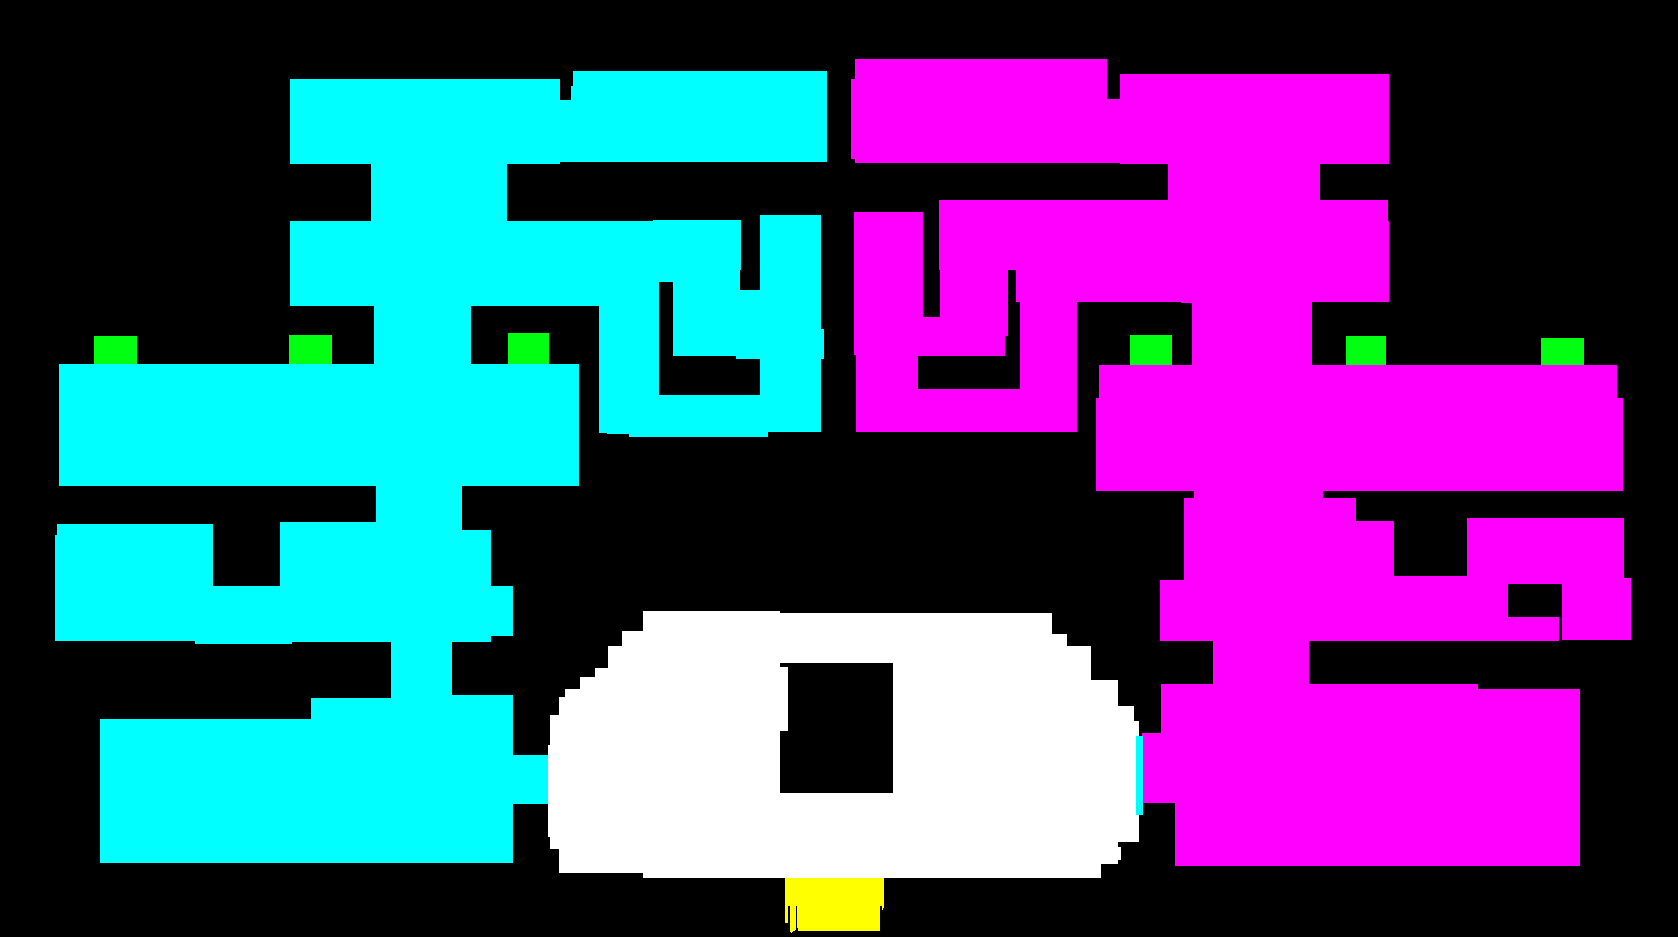
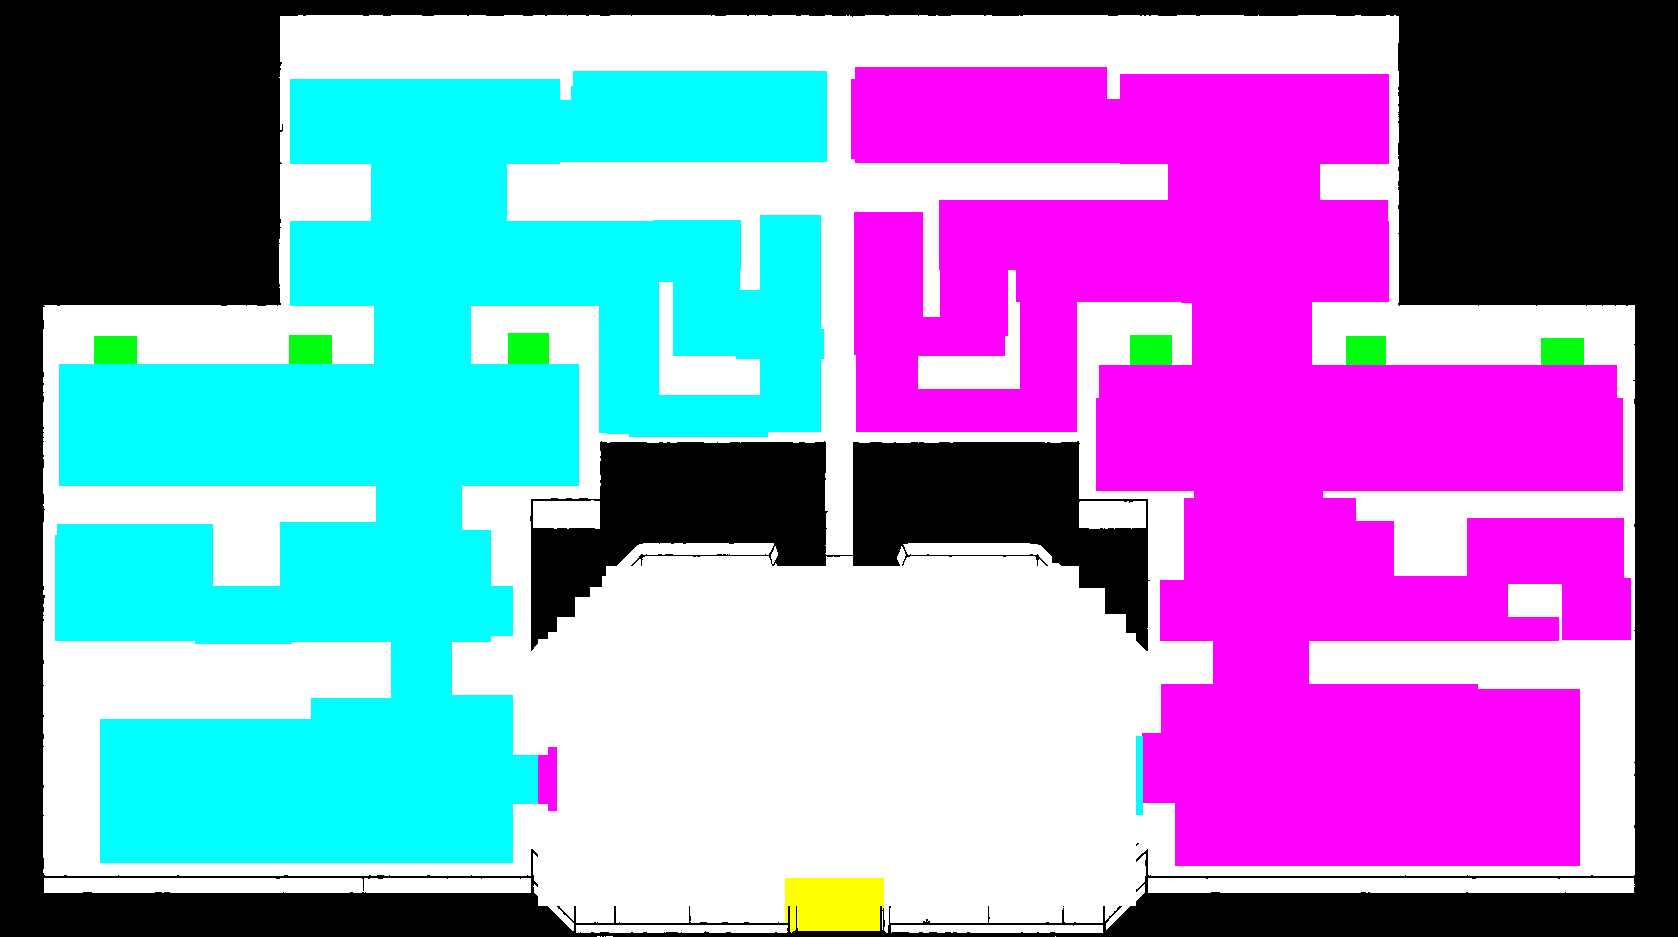
Re-export Level 1 collision mask from the PSD and ease post-core waves
The mask layer had drifted 28% from the exported PNG. Re-exported it flat,
quantized to the seven palette colours so terminal green and plate green stay
distinct. Verified by flood-filling the map with the real collider: each wing
reaches its own three terminals and plate, neither reaches the other's while
locked, and the exit gate stays shut until it is opened.

Taking the core now shortens the wave gap from 8s to 5s instead of 4s, and
sends one enemy instead of two. Still harder than before the core, without the
pile-up.

Changed region(s): [[0.0, 0.0, 0.9917, 1.0], [0.5268, 0.619, 0.9917, 1.0]]

diff --git a/core/src/main/java/io/github/fableops/level2/Level2Screen.java b/core/src/main/java/io/github/fableops/level2/Level2Screen.java
@@ -51,13 +51,14 @@ public class Level2Screen implements Screen, SplitScreen.HalfRenderer {
     private static final float ATTACK_RANGE = 120f;
     private static final int ATTACK_DAMAGE = 15;
     private static final int CONTACT_DAMAGE = 10; // per second of contact
-    // A wave comes in around each player this often, sooner and bigger once the core is taken
+    // A wave comes in around each player this often. Taking the core keeps the pressure up by
+    // shortening the gap rather than by sending bigger groups: one enemy every 5s instead of
+    // every 8s is still 1.6x the pre-core rate, but they arrive alone and can be fought one at a time
     private static final float FIRST_WAVE_DELAY = 5f;
     private static final float WAVE_INTERVAL = 8f;
-    private static final float WAVE_INTERVAL_CORE_TAKEN = 4f;
-    // Halved from 2/3 so fewer enemies are requested per wave (was causing overcrowded bunches)
+    private static final float WAVE_INTERVAL_CORE_TAKEN = 5f;
     private static final int WAVE_SIZE = 1;
-    private static final int WAVE_SIZE_CORE_TAKEN = 2;
+    private static final int WAVE_SIZE_CORE_TAKEN = 1;
     private static final int MAX_ENEMIES_PER_PLAYER = 10;
     // Level 2's own spawn pacing (SwarmController defaults to 0.15f/0.35f for Level 1).
     // ~3x slower so enemies trickle in one at a time instead of appearing as a bunch.
